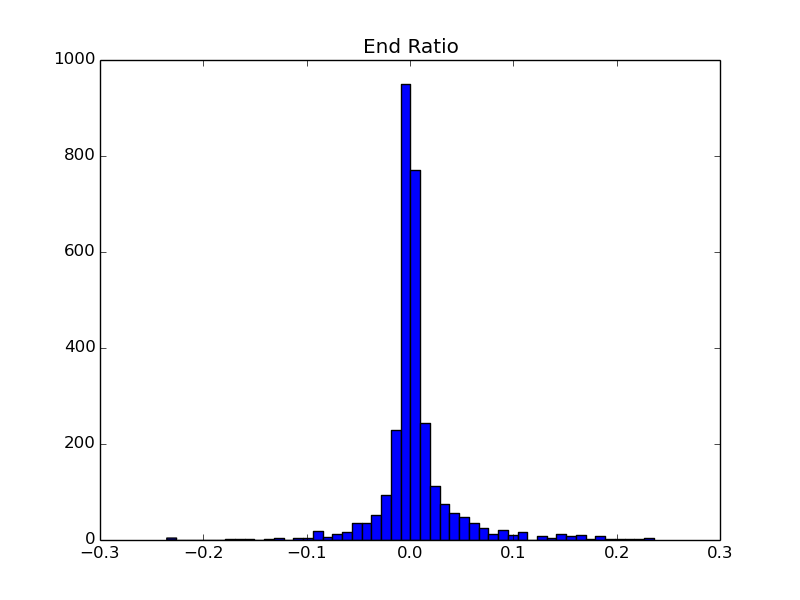
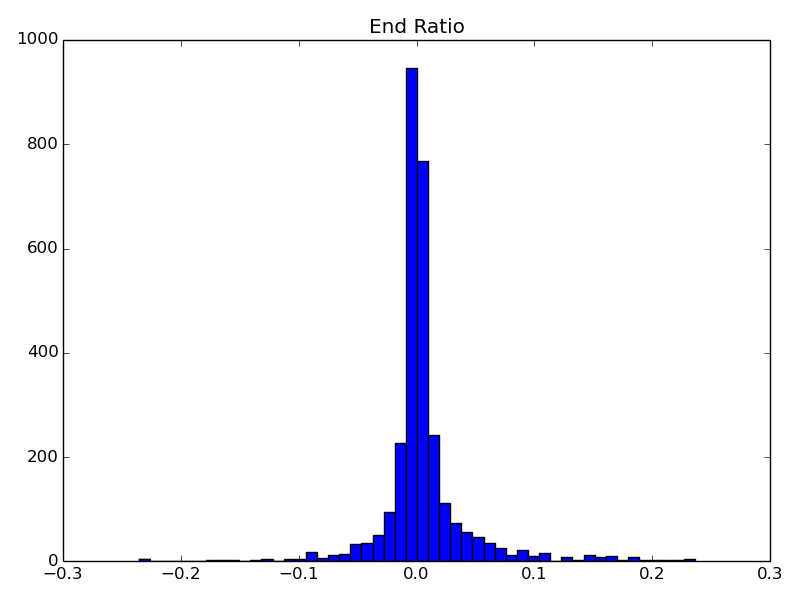
updates

Changed region(s): [[0.0312, 0.03, 0.9688, 0.96]]

diff --git a/src/master_writer.py b/src/master_writer.py
@@ -54,7 +54,7 @@ def run(DMSOgenes,DMSOTSS,DMSOEND,CAgenes,CATSS,CAEND,filedir,figuredir):
                 coverage = '1'
             d[gene].append(coverage)
             
-    coveragecutoff = 200
+    coveragecutoff = 50
     TRlist = list()
     TRgenes = list()
     DMSOTRgenes = list()
